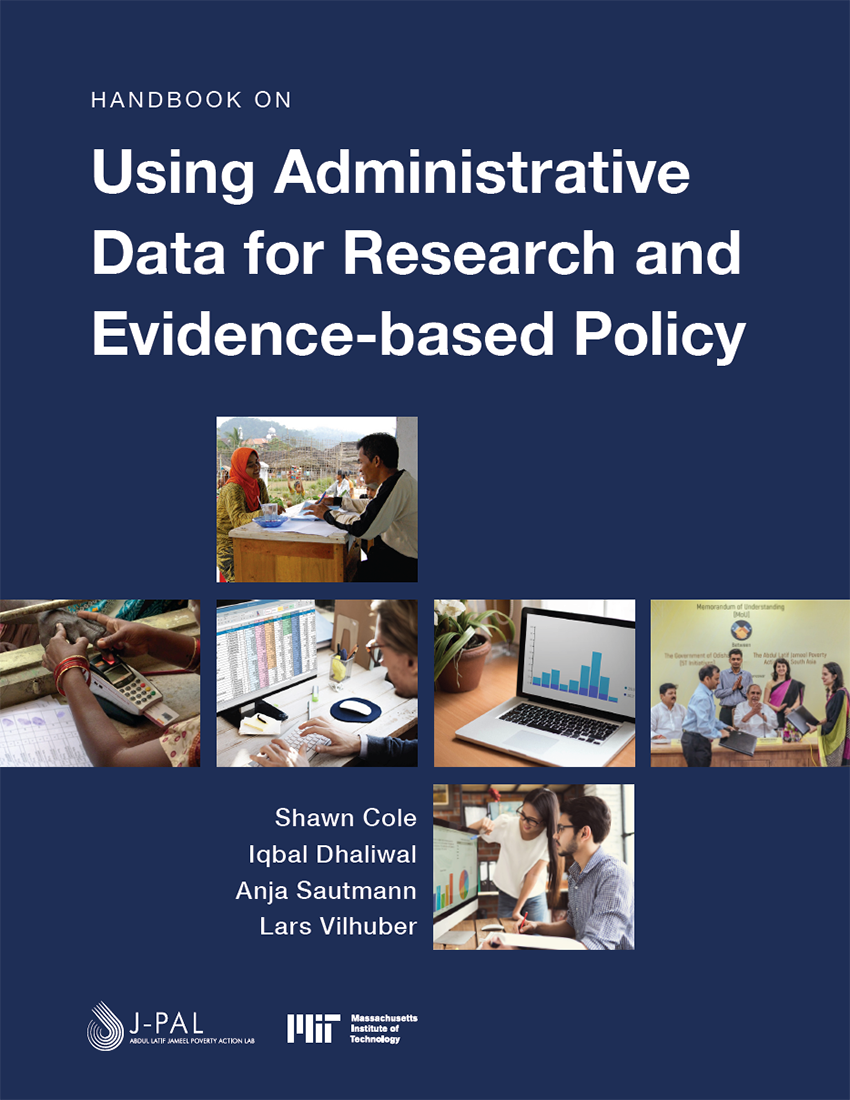
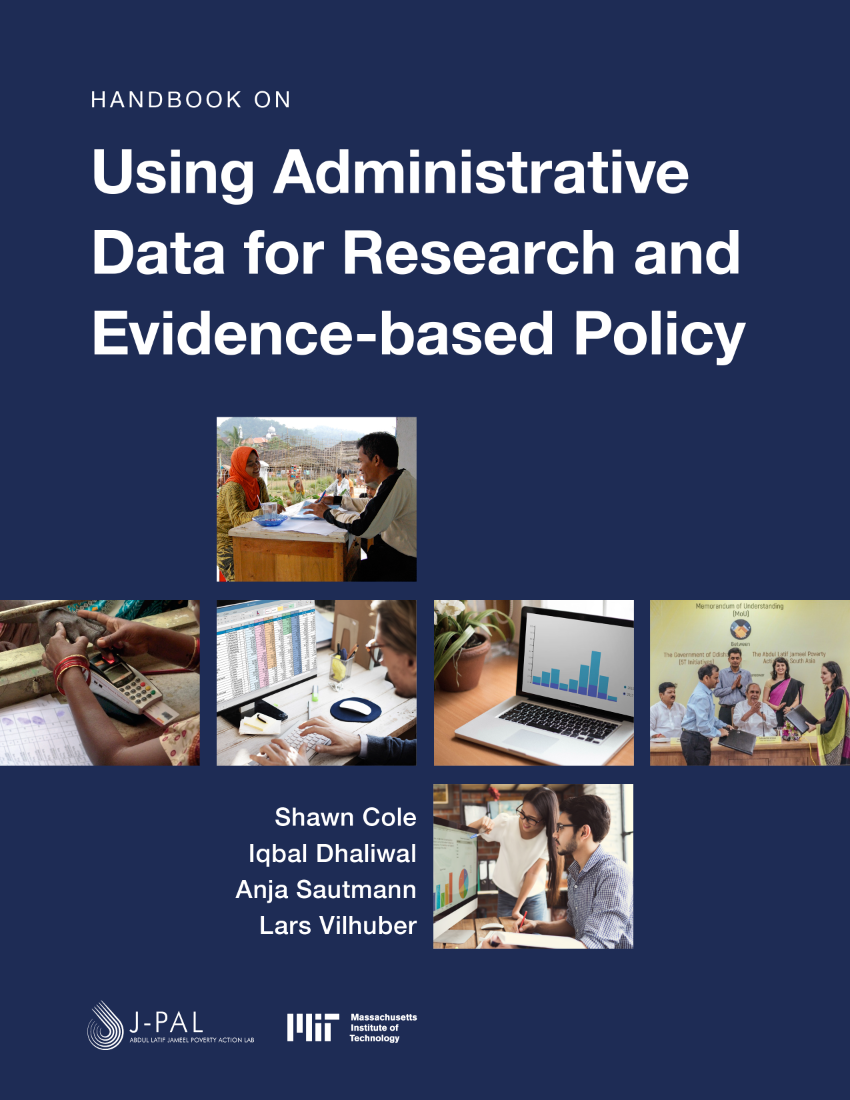
picture fixes

diff --git a/index.html b/index.html
@@ -61,7 +61,7 @@
 <style>
 body {
  /* background-image: url("cover.png");*/
- background-color: #1e2c56;
+ background-color: #1e2c55;
 }
 
 img {
